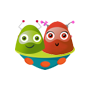
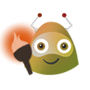
Никита поломал уровень 7

diff --git a/scripts/script7.js b/scripts/script7.js
@@ -23,48 +23,40 @@ class Herro {
 
 
     // массив с начальными значениями точки старта
-    this.startPosition=[2,12];
+    this.startPosition=[1,10];
 
     // массив со значениями точки финиша
-    this.finishPosition=[11,2];
+    this.finishPosition=[11,10];
 
     // Вес детали
     this.inBackpack=0;
 
-     
+     this.tracks = [
+        {begin : [1,10], leng: 2, direct: 0},
+        {begin : [2,10], leng: 9, direct: 1},
+        {begin : [2,2], leng: 6, direct: 0},
+        {begin : [7,4], leng: 3, direct: 1},
+        {begin : [7,4], leng: 3, direct: 0},
+        {begin : [9,10], leng: 7, direct: 1},
+        {begin : [9,10], leng: 3, direct: 0}
+    ]
 
     // Наша карта 1-стена, 0-дорога
     this.map = [
-      [0, 1, 0, 0, 0, 0, 1, 0, 1, 0, 1, 0, 0, 0, 1],
-      [0, 3, 1, 0, 0, 0, 0, 1, 1, 0, 0, 0, 0, 1, 0],
-      [0, 1, 4, 0, 1, 0, 0, 0, 1, 0, 0, 0, 0, 0, 0],
-      [0, 0, 0, 5, 0, 0, 1, 0, 1, 0, 0, 0, 0, 0, 0],
-      [0, 0, 0, 3, 6, 1, 0, 0, 1, 1, 0, 0, 0, 0, 0],
-      [0, 14, 9, 8, 7, 0, 0, 1, 0, 1, 1, 0, 0, 0, 0],
-      [0, 0, 0, 0, 0, 0, 0, 0, 1, 0, 1, 0, 0, 0, 1],
-      [0, 0, 0, 0, 0, 0, 0, 0, 0, 1, 0, 0, 0, 0, 0],
-      [0, 0, 0, 0, 1, 0, 0, 0, 0, 1, 0, 0, 0, 0, 0],
-      [0, 0, 0, 0, 1, 0, 0, 0, 0, 0, 0, 0, 0, 0, 0],
-      [0, 0, 0, 0, 0, 1, 1, 0, 0, 0, 0, 0, 0, 0, 0],
-      [0, 0, 0, 1, 1, 0, 1, 0, 0, 0, 0, 0, 0, 1, 0],
-      [0, 0, 0, 1, 0, 1, 1, 0, 0, 0, 0, 0, 0, 0, 1],
-      [0, 0, 0, 1, 0, 0, 1, 1, 0, 0, 1, 0, 0, 1, 1],
-      [0, 0, 1, 1, 0, 1, 0, 1, 0, 0, 0, 1, 1, 1, 1]
+      [1, 1, 1, 1, 1, 1, 1, 1, 1, 1, 1, 1, 1],
+      [1, 1, 1, 1, 1, 1, 1, 1, 1, 1, 1, 1, 1],
+      [1, 1, 0, 0, 0, 0, 0, 0, 1, 1, 1, 1, 1],
+      [1, 1, 0, 1, 1, 1, 1, 0, 1, 1, 1, 1, 1],
+      [1, 1, 0, 1, 1, 1, 1, 0, 0, 0, 1, 1, 1],
+      [1, 1, 0, 1, 1, 1, 1, 1, 1, 0, 1, 1, 1],
+      [1, 1, 0, 1, 1, 1, 1, 1, 1, 0, 1, 1, 1],
+      [1, 1, 0, 1, 1, 1, 1, 1, 1, 0, 1, 1, 1],
+      [1, 1, 0, 1, 1, 1, 1, 1, 1, 0, 1, 1, 1],
+      [1, 1, 0, 1, 1, 1, 1, 1, 1, 0, 1, 1, 1],
+      [1, 0, 0, 1, 1, 1, 1, 1, 1, 0, 0, 0, 1],
+      [1, 1, 1, 1, 1, 1, 1, 1, 1, 1, 1, 1, 1],
+      [1, 1, 1, 1, 1, 1, 1, 1, 1, 1, 1, 1, 1]
     ];
-
-    function createTrack(array){
-    	let res=[];
-    	for(let i=0; i<array.length; i++){
-    		for(let j=0; j<array.length; j++){
-    			if(array[i][j]>1){
-    				res.push({begin : [j,i], leng: 1, direct: 0});
-    			}
-    		}
-    	}
-    	return res;
-    }
-    this.tracks=createTrack(this.map);
-    // console.log(a);
 
     this.isShowedHint=0; //Была ли подсказка уже показана. 1-да, 0 нет, -1 подсказки нет на уровне
 
@@ -79,8 +71,8 @@ class Herro {
     this.timeOuts = []; //здесь будем хранить таймауты для каждого отображения героя
 
     this.h = document.querySelector("#herro"); //Наш персонаж
-    this.h.style.width='45px';
-    this.h.style.height='45px';
+    // this.h.style.width='45px';
+    // this.h.style.height='45px';
   };
   //Сброс параметров
   reset() {
@@ -99,11 +91,13 @@ class Herro {
   //соответствующую его координатам
   show(myX,myY,myBackpack) {
 
+
     // this.h.style.opacity = 1;
-    if (this.map[myY][myX] !== 1) { //проверяю наличие дороги по карте
+    if (this.map[myY][myX] != 1) { //проверяю наличие дороги по карте
       this.h.style.left = myX * this.delta + "px";
       this.h.style.top = myY * this.delta  + "px";
       console.log(myBackpack);
+      document.getElementById('weightOfDetail').innerHTML=myBackpack;
       //Проверяем, не достиг ли герой цели
      if (myX == this.finishPosition[0] &&  myY== this.finishPosition[1]) {
        // this.h.style.opacity = 0;
@@ -127,35 +121,35 @@ class Herro {
   
     switch(op){
       case 'add':
-      	elem=document.createElement('div');
-      	elem.className = "scoreAnim add";
-      	elem.innerHTML = "+3";
-      	document.getElementById('score').append(elem);
-      	
-      	window.setTimeout(function() {
+        elem=document.createElement('div');
+        elem.className = "scoreAnim add";
+        elem.innerHTML = "+3";
+        document.getElementById('score').append(elem);
+        
+        window.setTimeout(function() {
             elem.classList.add("showBonus")
         }, 100)
 
 
-      	this.score+=val;
-      	elem.classList.remove("showBonus");
-      	setTimeout(() => elem.remove(), 2000);
+        this.score+=val;
+        elem.classList.remove("showBonus");
+        setTimeout(() => elem.remove(), 2000);
         break;
       
       case 'sub':
         elem=document.createElement('div');
-      	elem.className = "scoreAnim sub";
-      	elem.innerHTML = "-1";
-      	document.getElementById('score').append(elem);
-      	
-      	window.setTimeout(function() {
+        elem.className = "scoreAnim sub";
+        elem.innerHTML = "-1";
+        document.getElementById('score').append(elem);
+        
+        window.setTimeout(function() {
             elem.classList.add("showBonus")
         }, 100)
 
 
-      	this.score-=val;
-      	elem.classList.remove("showBonus");
-      	setTimeout(() => elem.remove(), 2000);
+        this.score-=val;
+        elem.classList.remove("showBonus");
+        setTimeout(() => elem.remove(), 2000);
         break;
         break;
     }
@@ -236,10 +230,11 @@ class Herro {
 
   // Определяем какой сейчас уровень и делаем подготовку для следующего
   newLevel=()=>{
-  	// console.log('овый уровень');
-    // this.h.style.opacity = 1;
+    
+    if(this.isShowedHint==-1){
+      document.getElementById('hint').style.display='none'; 
+    }
 
-    (this.isShowedHint==-1) ? document.getElementById('hint').style.display='none' : document.getElementById('hint').style.display='block'; 
     if (this.level<10){
       this.level++;
     }
@@ -252,21 +247,15 @@ class Herro {
       let rndValue=0;
       if (elem.direct == 0) {
         track.style.height = this.delta + "px";
-        track.style.width = this.delta + "px";
+        track.style.width = this.delta * elem.leng + "px";
         track.style.left = this.delta * elem.begin[0] + "px";
         track.style.top = this.delta * elem.begin[1] + "px";
-        track.style.padding = "0px";
-        track.style.background = "url('../images/asteroid.png')";
-        rndValue=Math.floor(Math.random() * Math.floor(180));
-        track.style.transform = 'rotate(' + rndValue + 'deg)';
+      } else {
+        track.style.width = this.delta + "px";
+        track.style.height = this.delta * elem.leng + "px";
+        track.style.left = this.delta * elem.begin[0] + "px";
+        track.style.top = this.delta * elem.begin[1] - this.delta * elem.leng + this.delta + "px";
       }
-      // не актуально для карт, где генерируем автоматом лабиринт
-      // } else {
-      //   track.style.width = this.delta + "px";
-      //   track.style.height = this.delta * elem.leng + "px";
-      //   track.style.left = this.delta * elem.begin[0] + "px";
-      //   track.style.top = this.delta * elem.begin[1] - this.delta * elem.leng + this.delta + "px";
-      // }
       document.querySelector("#showGame").append(track);
     })
     
@@ -290,8 +279,8 @@ class Herro {
     document.querySelector('#exit').style.background= "url("+ this.finishImageName+") no-repeat";
     document.querySelector('#exit').style.left = this.finishPosition[0] * this.delta + "px";
     document.querySelector('#exit').style.top = this.finishPosition[1] * this.delta + "px";
-    document.querySelector('#exit').style.width = "48px";
-    document.querySelector('#exit').style.height = "48px";
+    // document.querySelector('#exit').style.width = "48px";
+    // document.querySelector('#exit').style.height = "48px";
   };
 
 

diff --git a/styles/style.css b/styles/style.css
@@ -156,6 +156,7 @@ body{
   z-index: 1;
 }
 
+
 #start, .ready {
 	padding: 10px 20px;
 	background:#E1A053;
@@ -257,17 +258,26 @@ body{
    transition: 0.7s;
 }
 
+#hint{
+	text-decoration: none;
+	margin: 10px 0;
+	color: #fff;
+	border-radius: 3px;
+	font-size: 22px;
+	cursor: pointer;
+	outline: none;
+	transition: 0.7s;
+	background-color: #005b7f;
+}
+
 .modal__cross:hover {
 	fill: #005b7f;
 }
 
-.btn:hover, a.show-hint:hover, #btnSave:hover {
+.btn:hover, a.show-hint:hover, #btnSave:hover, #hint:hover {
 	background-color: #E1E4FF;
 }
 
-/*.btn:active, a.show-hint:active {
-    background: #E1E4FF;
-}*/
 
 .btn, .ready, button, input[type=submit]{
    text-decoration: none;
@@ -282,13 +292,13 @@ body{
    background-color: #005b7f;
 }
 
-.btn{
+.btn, #hint{
 	padding: 16px 32px !important;
 }
 
 
 
-.btn, #score, .ready{
+.btn, #score, .ready, #hint{
   background-color: #fff;
   border-radius: 50px;
   margin-right: 20px;
@@ -300,12 +310,15 @@ body{
   line-height: 22px;
   text-align: center;
   height: 50px;
+}
 
+#hint{
+	margin-left: 16px;
 }
 
 a.show-hint{
 	margin-left: 20px;
-	display: inline-flex !important;
+	display: inline-flex;
 	align-items: center;
 }
 
@@ -347,6 +360,8 @@ div#score{
 	color: #cfcfcf;
 }
 
+.line-block{display: flex; align-items: center;}
+
 
 div#score div.scoreAnim{
   transform: scale(15);
@@ -374,6 +389,28 @@ div#score div.sub{
   transition: 1s;
   opacity: 0 !important;
   transform: scale(1)!important;
+}
+
+/*Финальный уровень*/
+div.backpack{
+	position: absolute;
+	top: 5px;
+	right: 5px;
+	width: 60px;
+	height: 60px;
+	background: url('../images/back.png') no-repeat;
+	background-size: contain;
+	background-position: center center;
+	display: flex;
+	align-items: center;
+	justify-content: center;
+}
+
+#weightOfDetail{
+	font-size: 23px;
+	color: #f00;
+	font-weight: 600;
+	opacity: 1;
 }
 
 

diff --git a/modules/quest-page7.html b/modules/quest-page7.html
@@ -20,7 +20,7 @@
 			<div class="line-block">
 		  		<input type="hidden" id='curLevel' value='6'> <!-- Текущий уровень -->
 		  		<a href="#" class="js-open-modal show-mission btn" data-modal="1">Миссия</a>
-		  		<a href="#" class="js-open-modal show-hint btn" id='hint' data-modal="2" title="Подсказка стоит 1 геник!">Подсказка &nbsp;<img src="../images/genic.png" alt="">&nbsp; -1</a>
+		  		<a href="#" class="js-open-modal show-hint" id='hint' data-modal="2" title="Подсказка стоит 1 геник!">Подсказка &nbsp;<img src="../images/genic.png" alt="">&nbsp; -1</a>
 		  	</div>
 
 		  	<div id="levels" class="line-block">
@@ -72,9 +72,15 @@
 	    		<button id="reset" class="btn">Вернуть персонажа</button>
 	    	</div>
 
+	    	
+
 	    	<div id="showGame">
 	    	    <div id="herro"></div>
-				<div id="exit"></div>   
+				<div id="exit"></div> 
+				
+				<div class="backpack">
+	    			<span id="weightOfDetail">0</span>
+	    		</div>  
 		    </div>
 	    </div>
 		
@@ -99,8 +105,7 @@
 	      <block type="if_part_weight"></block>
 	      <block type="in_a_backpack"></block>
 	      <block type="on_the_floor"></block>
-				<block type="replace_the_part"></block>
-				<block type="for_loop"></block>
+	      <block type="replace_the_part"></block>
 	    </category>
 	    
 	  </xml>

diff --git a/itgenio-blocks/blocks.js b/itgenio-blocks/blocks.js
@@ -296,7 +296,7 @@ Blockly.Blocks['in_a_backpack'] = {
     this.appendDummyInput()
         .appendField("вес детали");
     this.appendDummyInput()
-        .appendField("в рюкзаке");
+        .appendField("в памяти");
     this.setOutput(true, null);
     this.setColour(210);
  this.setTooltip("");
@@ -308,9 +308,9 @@ Blockly.Blocks['in_a_backpack'] = {
 Blockly.Blocks['on_the_floor'] = {
   init: function() {
     this.appendDummyInput()
-        .appendField("вес детали");
+        .appendField("вес");
     this.appendDummyInput()
-        .appendField("под ногами");
+        .appendField("новой детали");
     this.setOutput(true, null);
     this.setColour(210);
  this.setTooltip("");
@@ -322,7 +322,7 @@ Blockly.Blocks['on_the_floor'] = {
 Blockly.Blocks['replace_the_part'] = {
   init: function() {
     this.appendDummyInput()
-        .appendField("Заменить деталь в рюкзаке");
+        .appendField("Запомнить вес новой детали");
     this.setPreviousStatement(true, null);
     this.setNextStatement(true, null);
     this.setColour(220);
